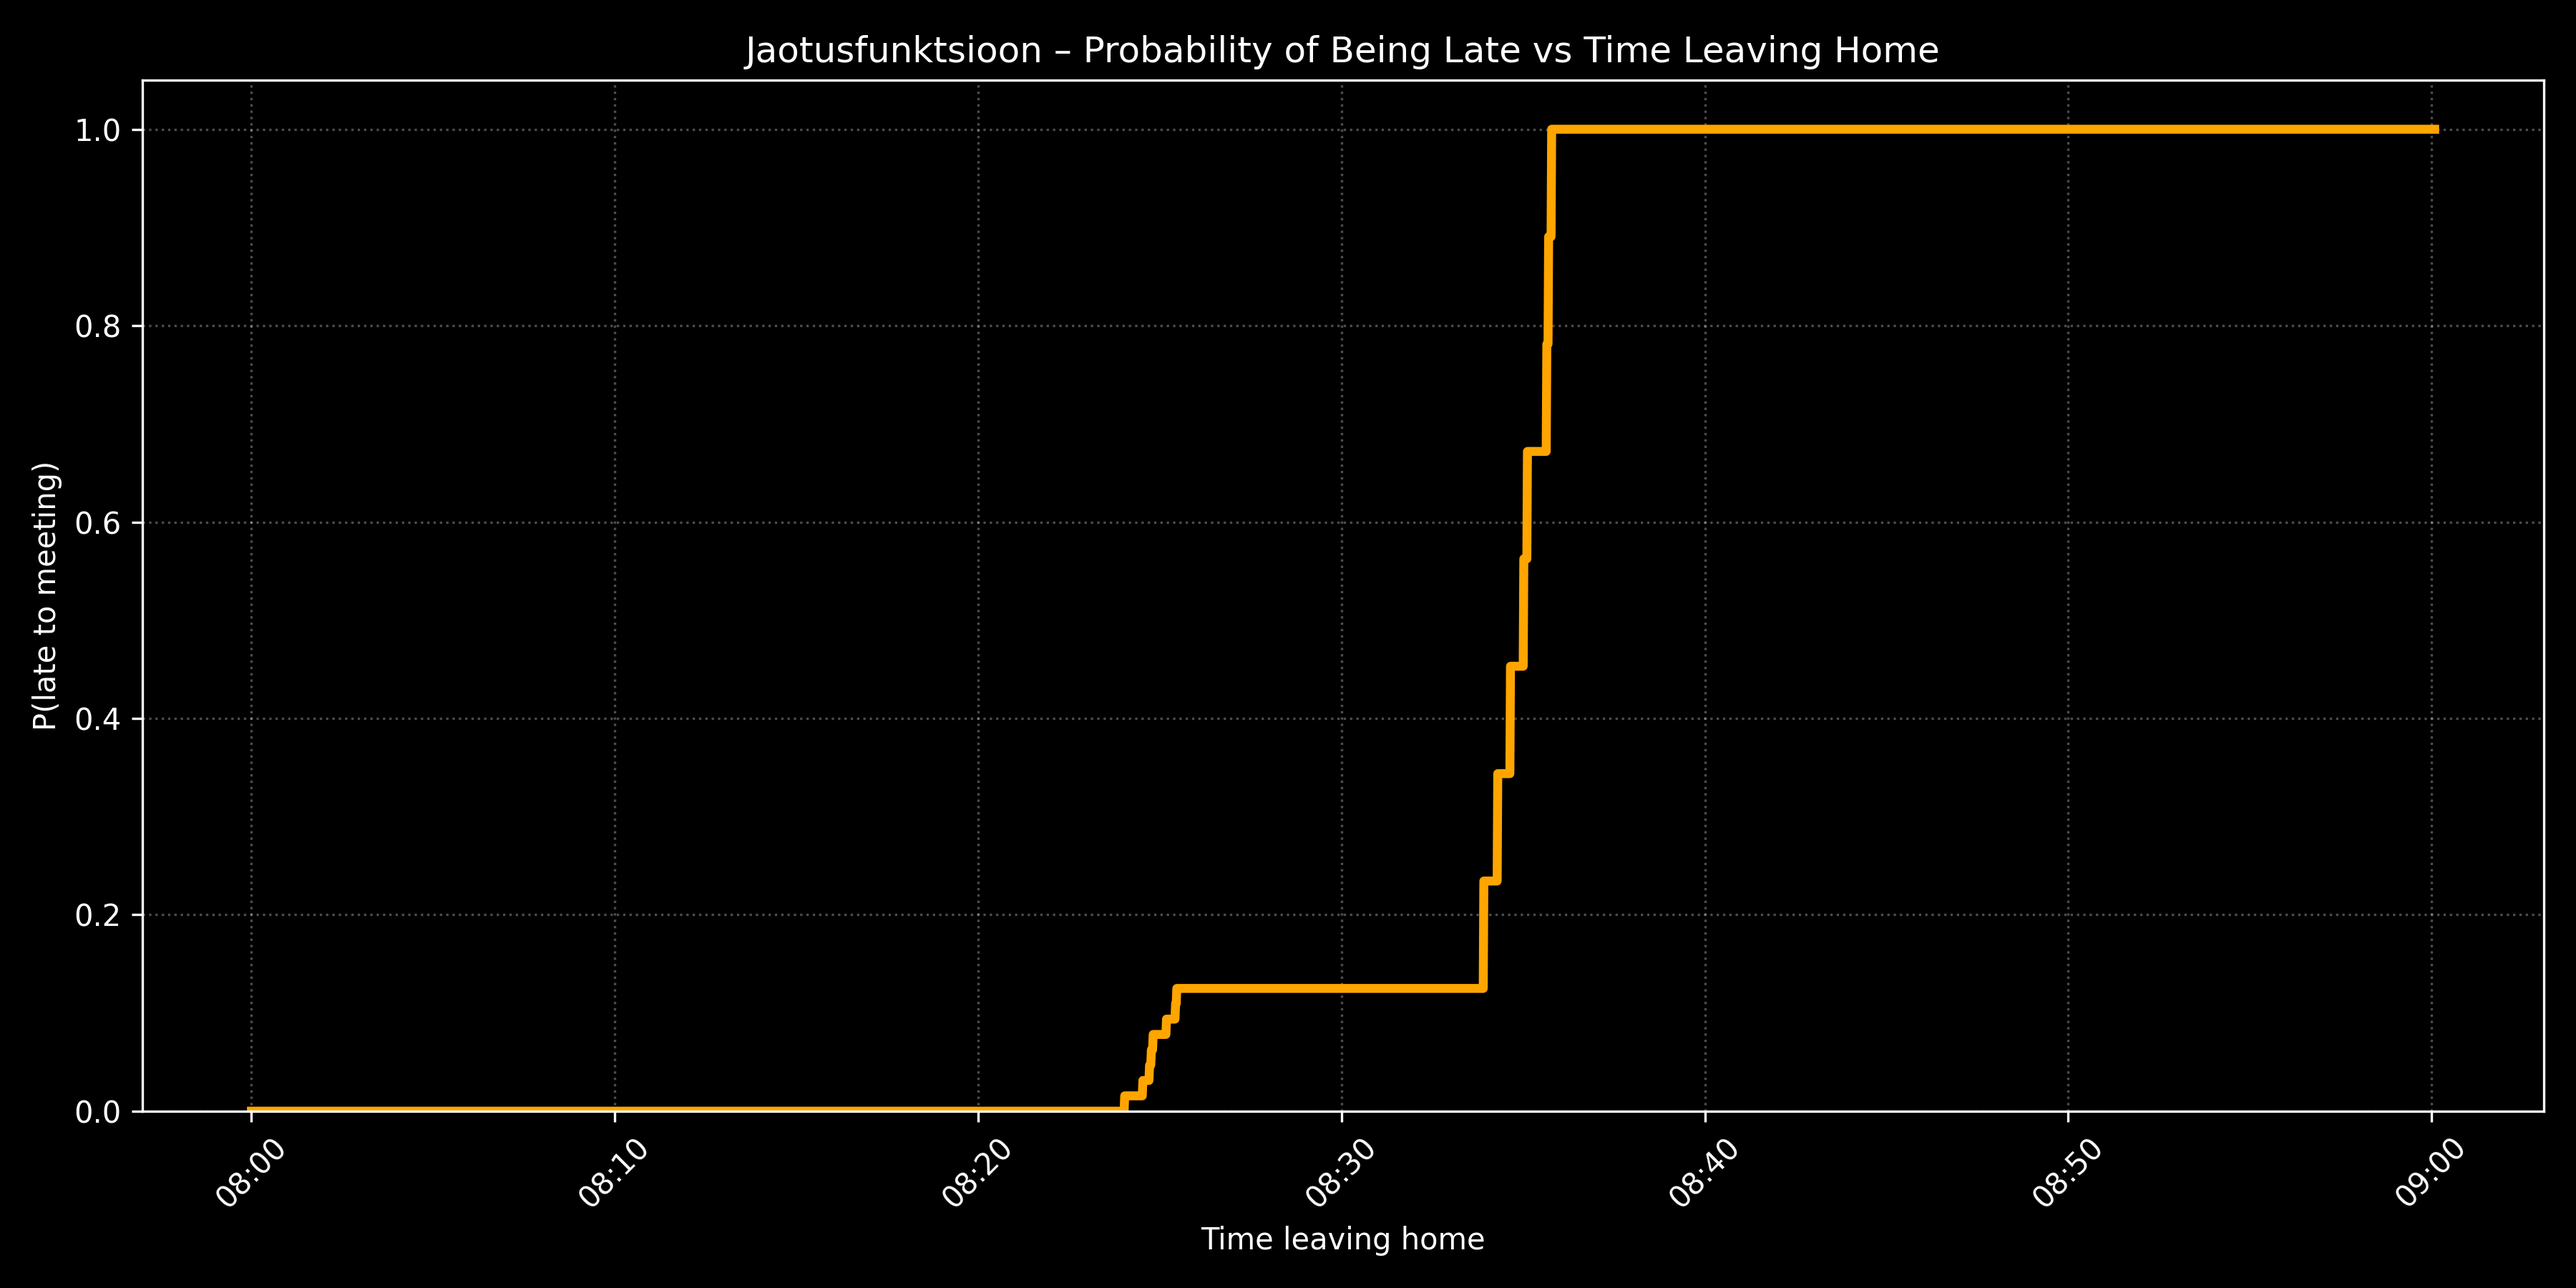
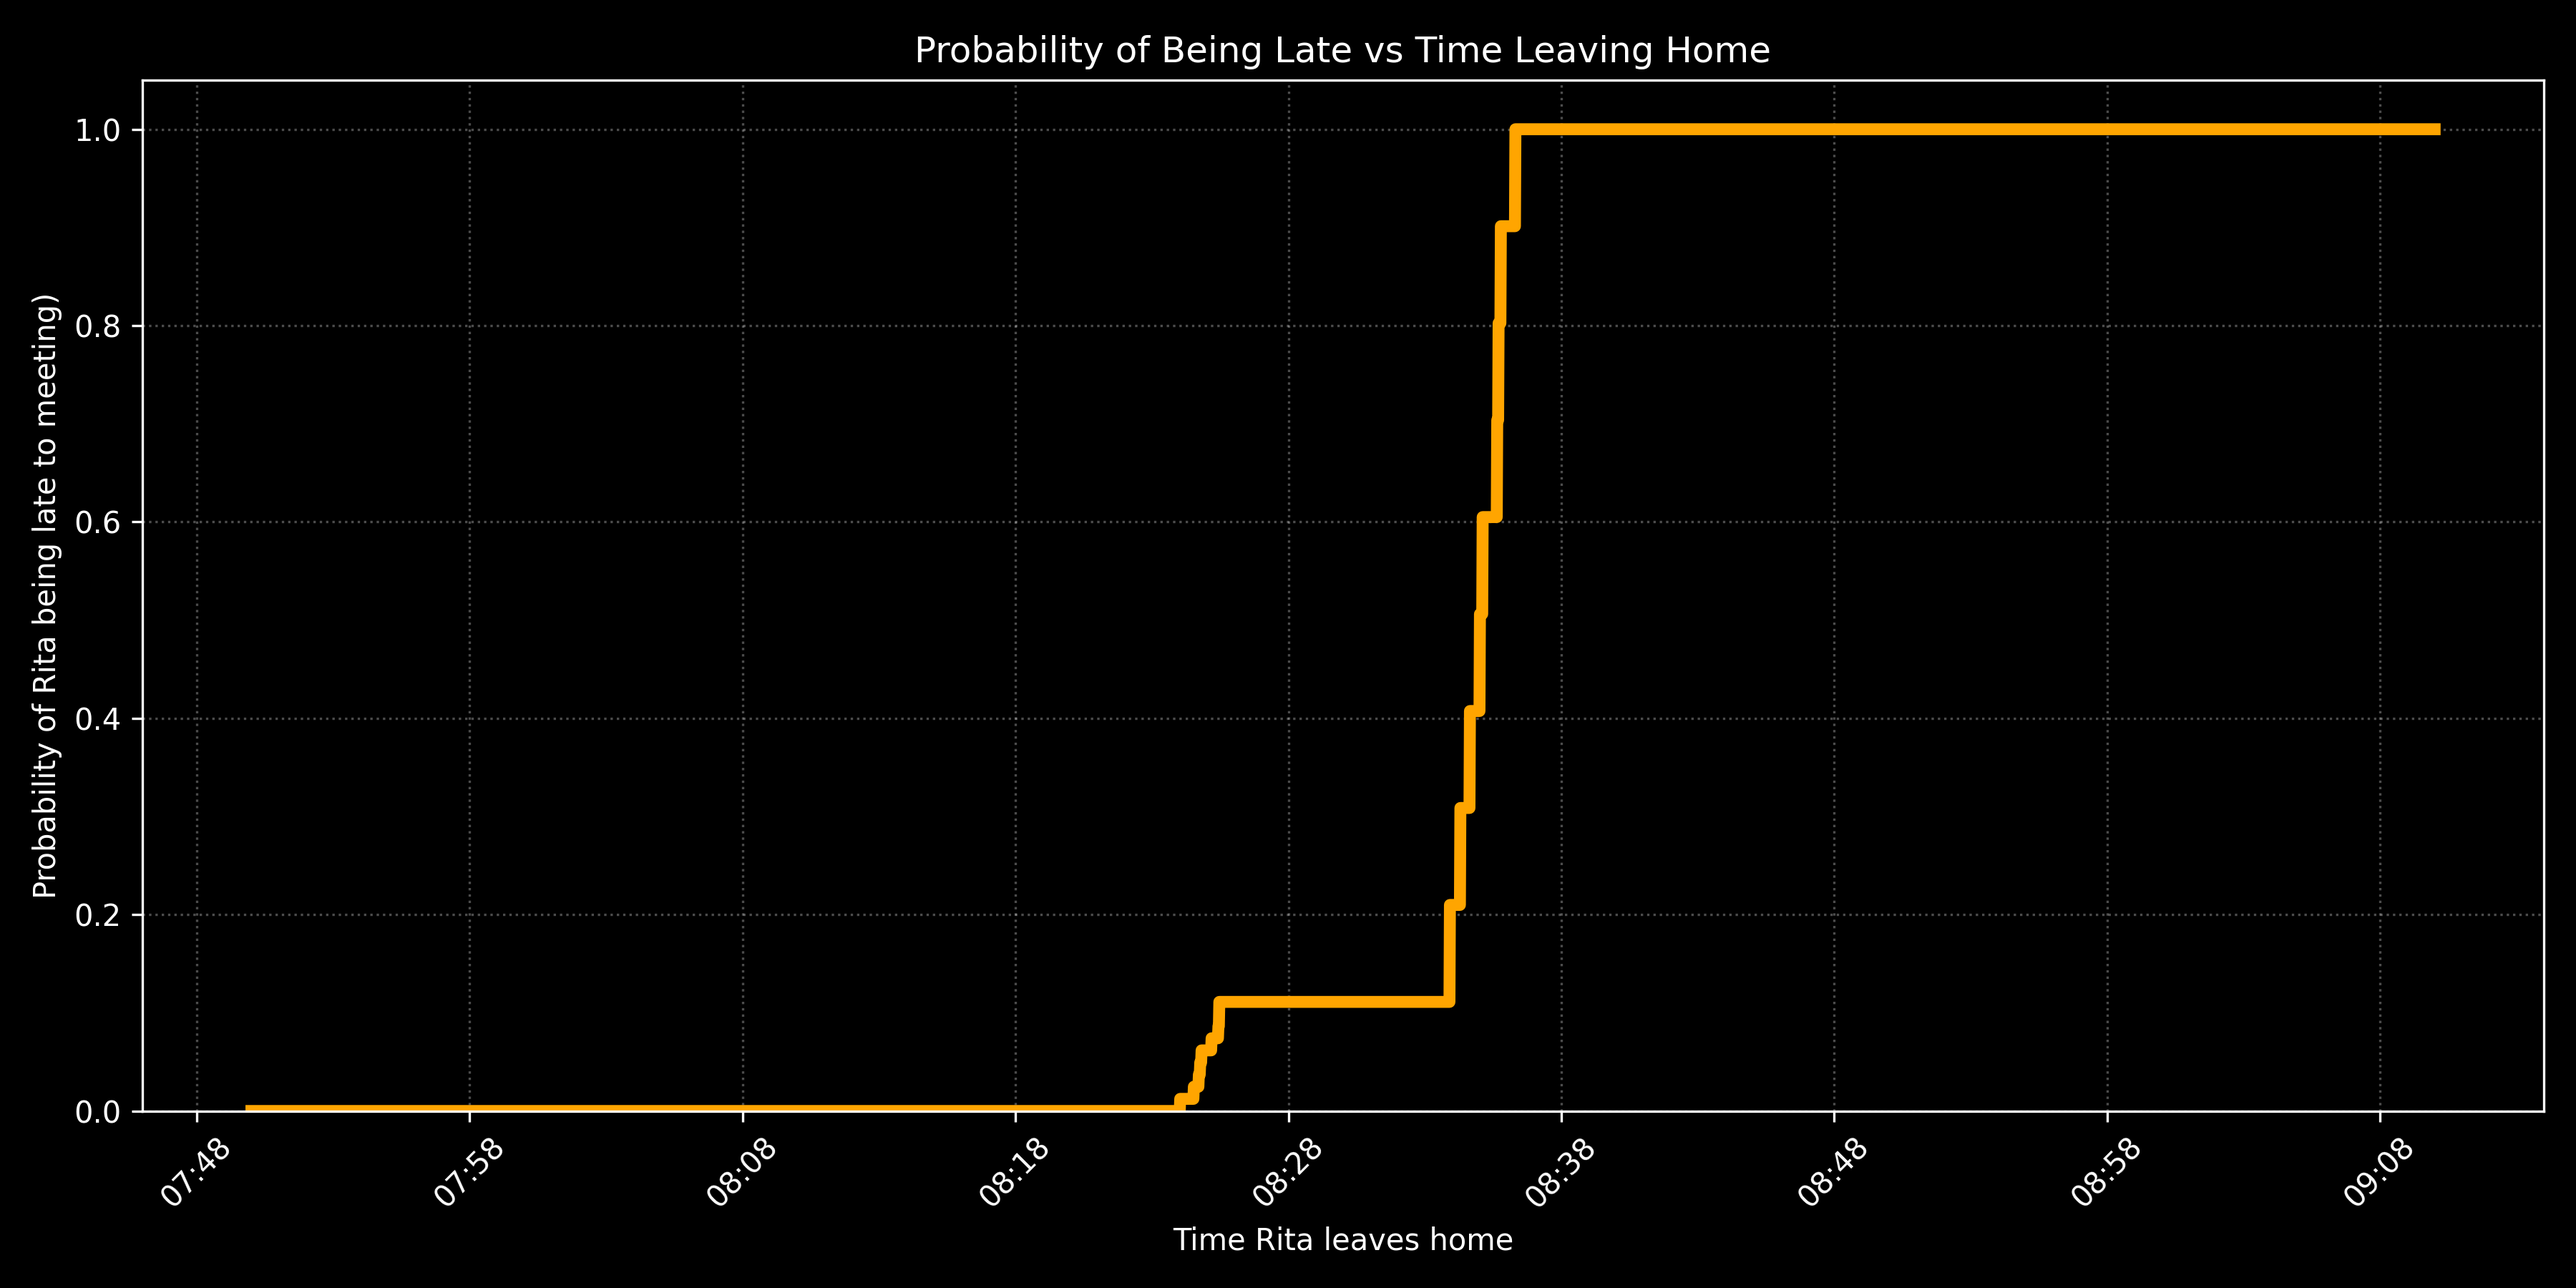
Ninth day of data collection

diff --git a/src/compute_lateness_probabilities.py b/src/compute_lateness_probabilities.py
@@ -1,12 +1,26 @@
+""" Calculate lateness probabilities per second based on home departure time """
+
 import pandas as pd
 from datetime import datetime, time, timedelta
 
 def compute_lateness_probabilities():
     """
-    Calculates lateness probability for each second from 08:00:00 to 09:00:05.
-    Returns a list of tuples: (time_str, probability).
+    Computes the probability that Rita will be late to her 09:05 meeting based on 
+    her home departure time.
+
+    Assumes:
+    - Rita takes exactly 5 minutes (300 seconds) to walk from home to the Zoo bus stop.
+    - She will catch the first available bus (bus_1, bus_2, or bus_3) that arrives at or after she arrives.
+    - She is late if the bus she catches arrives at Toompark later than 09:01:00.
+
+    The function simulates departure times from 07:50:00 to 09:10:00 (inclusive), in 1-second increments.
+
+    Returns:
+        List[Tuple[str, float]]: A list of (time_str, P_late) pairs, where:
+            - time_str (str): The time Rita leaves home in "HH:MM:SS" format.
+            - P_late (float): The estimated probability that she arrives late.
     """
-    # Load bus data
+    # Load pre-labeled bus data
     b1 = pd.read_csv("data/bus_1.csv", parse_dates=["mid_time"])
     b2 = pd.read_csv("data/bus_2.csv", parse_dates=["mid_time"])
     b3 = pd.read_csv("data/bus_3.csv", parse_dates=["mid_time"])
@@ -15,6 +29,9 @@ def compute_lateness_probabilities():
     results = []
 
     def evaluate_bus(df, t_arrive):
+        """
+        Determines whether a bus is caught and whether it arrives on time.
+        """
         zoo = df[df["stop"] == "Zoo"].copy()
         toom = df[df["stop"] == "Toompark"].copy()
         zoo["caught"] = zoo["mid_time"].apply(lambda t: t.time() >= t_arrive)
@@ -22,14 +39,19 @@ def compute_lateness_probabilities():
         return zoo, toom
 
     def get_p_late(t_home):
+        """
+        Computes the probability of being late if Rita leaves home at t_home.
+        """
         t_arrive = (t_home + timedelta(minutes=5)).time()
 
+        # Evaluate all 3 buses for catch/on-time status
         zoo1, toom1 = evaluate_bus(b1, t_arrive)
         zoo2, toom2 = evaluate_bus(b2, t_arrive)
         zoo3, toom3 = evaluate_bus(b3, t_arrive)
 
         total_days = len(zoo1)
 
+        # Probabilities for each bus
         P_catch_1 = zoo1["caught"].sum() / total_days
         P_late_1 = 1 - toom1["on_time"].sum() / total_days
 
@@ -39,18 +61,20 @@ def compute_lateness_probabilities():
         P_catch_3 = zoo3["caught"].sum() / total_days
         P_late_3 = 1 - toom3["on_time"].sum() / total_days
 
+        # If bus 1 is always caught and always on time → never late
         if P_catch_1 == 1.0 and P_late_1 == 0.0:
             return 0.0
 
+        # Layered lateness probability
         return (1 - P_catch_1) * (
             (P_catch_2 * P_late_2) +
             ((1 - P_catch_2) * P_catch_3 * P_late_3) +
             ((1 - P_catch_2) * (1 - P_catch_3))
         )
 
-    # Iterate second by second from 08:00:00 to 09:00:05
-    start = datetime.strptime("08:00:00", "%H:%M:%S")
-    end = datetime.strptime("09:00:05", "%H:%M:%S")
+    # Iterate second by second from 07:50:00 to 09:10:00
+    start = datetime.strptime("07:50:00", "%H:%M:%S")
+    end = datetime.strptime("09:10:00", "%H:%M:%S")
     current = start
 
     while current <= end:

diff --git a/src/get_lateness_probability.py b/src/get_lateness_probability.py
@@ -1,17 +1,26 @@
+""" Interactive tool to estimate Rita's lateness probability based on her home departure time """
+
 import pandas as pd
 from datetime import datetime, time, timedelta
 
 def get_lateness_probability_from_home_departure():
     """
-    Asks the user for the time Rita leaves home, and calculates the probability of her being late.
-    Accounts for 5 minutes (300 seconds) of walking time to the Zoo stop.
+    Asks the user for the time Rita leaves home and calculates the probability of her being late.
+    The logic considers real GPS data, walking time to the bus stop, and multiple bus options.
+
+    Bus structure:
+        - bus_1.csv: earliest bus
+        - bus_2.csv: second bus
+        - bus_3.csv: third bus
+
+    Rita must arrive at Toompark stop by 09:01:00 to avoid being late.
     """
-    # Load data
+    # Load preprocessed mid-time data for the 3 buses
     b1 = pd.read_csv("data/bus_1.csv", parse_dates=["mid_time"])
     b2 = pd.read_csv("data/bus_2.csv", parse_dates=["mid_time"])
     b3 = pd.read_csv("data/bus_3.csv", parse_dates=["mid_time"])
 
-    # Get user input
+    # Prompt user until a valid time is entered
     while True:
         user_input = input("🏠 Enter the time Rita leaves home (HH:MM:SS): ")
         try:
@@ -20,26 +29,32 @@ def get_lateness_probability_from_home_departure():
         except ValueError:
             print("❌ Invalid format. Please enter time as HH:MM:SS (e.g. 08:28:00)")
 
-    # Calculate Zoo arrival time
+    # Rita arrives at Zoo 5 minutes later
     t_arrive = (t_home + timedelta(seconds=300)).time()
     print(f"🚶 Arrival at Zoo stop after 5-minute walk: {t_arrive}")
 
-    cutoff = time(9, 1)  # Toompark deadline
+    cutoff = time(9, 1)  # Latest allowed arrival time at Toompark to avoid being late
 
     def evaluate_bus(df):
+        """
+        Determines whether each bus on each day was:
+        - Caught (based on Zoo stop timing)
+        - On time (based on Toompark stop timing)
+        """
         zoo = df[df["stop"] == "Zoo"].copy()
         toom = df[df["stop"] == "Toompark"].copy()
         zoo["caught"] = zoo["mid_time"].apply(lambda t: t.time() >= t_arrive)
         toom["on_time"] = toom["mid_time"].apply(lambda t: t.time() <= cutoff)
         return zoo, toom
 
+    # Evaluate all 3 buses
     zoo1, toom1 = evaluate_bus(b1)
     zoo2, toom2 = evaluate_bus(b2)
     zoo3, toom3 = evaluate_bus(b3)
 
     total_days = len(zoo1)
 
-    # Probabilities
+    # Compute per-bus probabilities from data
     P_catch_1 = zoo1["caught"].sum() / total_days
     P_late_1 = 1 - toom1["on_time"].sum() / total_days
 
@@ -49,11 +64,12 @@ def get_lateness_probability_from_home_departure():
     P_catch_3 = zoo3["caught"].sum() / total_days
     P_late_3 = 1 - toom3["on_time"].sum() / total_days
 
+    # Early exit: if Rita always catches the first bus and it's always on time
     if P_catch_1 == 1.0 and P_late_1 == 0.0:
         print(f"✅ Rita is guaranteed to be on time if she leaves at {user_input}!")
         return 0.0
 
-    # Probability tree
+    # Tree-based probability calculation
     P_late = (1 - P_catch_1) * (
         (P_catch_2 * P_late_2) +
         ((1 - P_catch_2) * P_catch_3 * P_late_3) +

diff --git a/src/plot_lateness_graph.py b/src/plot_lateness_graph.py
@@ -1,3 +1,5 @@
+""" Plot lateness probability curve based on departure time """
+
 import matplotlib.pyplot as plt
 from datetime import datetime
 import matplotlib.dates as mdates
@@ -6,38 +8,44 @@ import os
 from compute_lateness_probabilities import compute_lateness_probabilities
 
 def plot_lateness_graph():
+    """
+    Plots and saves the lateness probability curve from 07:50:00 to 09:10:00.
+    The output graph (lateness_cdf.png) is saved to the 'output/' directory.
+    """
+    # Get probability values for each second in the time range
     data = compute_lateness_probabilities()
-    print(data)
-    # Convert time strings to datetime objects
+
+    # Convert time strings to datetime objects for accurate x-axis plotting
     times = [datetime.strptime(t, "%H:%M:%S") for t, _ in data]
     probs = [p for _, p in data]
 
     # Ensure output folder exists
     os.makedirs("output", exist_ok=True)
 
-    # Plot setup
+    # Set up plot
     plt.style.use("dark_background")
     plt.figure(figsize=(12, 6))
-    plt.plot(times, probs, color="orange", linewidth=3)
+    plt.plot(times, probs, color="orange", linewidth=4)
 
-    # X-axis formatting
+    # Format x-axis with HH:MM labels every 10 minutes
     plt.gca().xaxis.set_major_formatter(mdates.DateFormatter('%H:%M'))
     plt.gca().xaxis.set_major_locator(mdates.MinuteLocator(interval=10))
     plt.xticks(rotation=45)
 
     # Labels and styling
-    plt.xlabel("Time leaving home")
-    plt.ylabel("P(late to meeting)")
-    plt.title("Jaotusfunktsioon – Probability of Being Late vs Time Leaving Home")
+    plt.xlabel("Time Rita leaves home")
+    plt.ylabel("Probability of Rita being late to meeting)")
+    plt.title("Probability of Being Late vs Time Leaving Home")
     plt.ylim(0, 1.05)
     plt.grid(True, linestyle=":", alpha=0.3)
 
-    # Save to file
+    # Save to output folder
     output_path = "output/lateness_cdf.png"
     plt.tight_layout()
     plt.savefig(output_path, dpi=300)
     print(f"✅ Graph saved to {output_path}")
 
+    # Also show the graph
     plt.show()
 
 # Run the function

diff --git a/src/__init__.py b/src/__init__.py
@@ -1,10 +1,12 @@
 """
-This package contains the source code for the RMK Rita's lateness analysis project.
+This package contains the source code for the RMK Rita's lateness analysis challenge.
 
 Modules:
 - Data collection from real-time GPS (track_bus.py)
 - Data cleaning and processing (convert_bus_data.py, labeling.py)
-- Probability calculation based on historical bus data (get_lateness_probability.py, compute_lateness_probabilities.py)
+- Probability calculation:
+    • compute_lateness_probabilities.py – calculates lateness over a time range
+    • get_lateness_probability.py – interactively estimates lateness for a specific time
 - Visualization of lateness probability as a cumulative distribution function (plot_lateness_graph.py)
 - Utility functions (haversine.py)
 """

diff --git a/src/convert_bus_data.py b/src/convert_bus_data.py
@@ -36,6 +36,7 @@ def convert_bus_data(input_path="data/bus_arrivals.csv", output_path="data/clean
                 "mid_time": mid_time,
                 "date": mid_time.date()
             })
+
     # Convert to DataFrame and save to CSV
     clean_df = pd.DataFrame(output)
     clean_df.to_csv(output_path, index=False)
